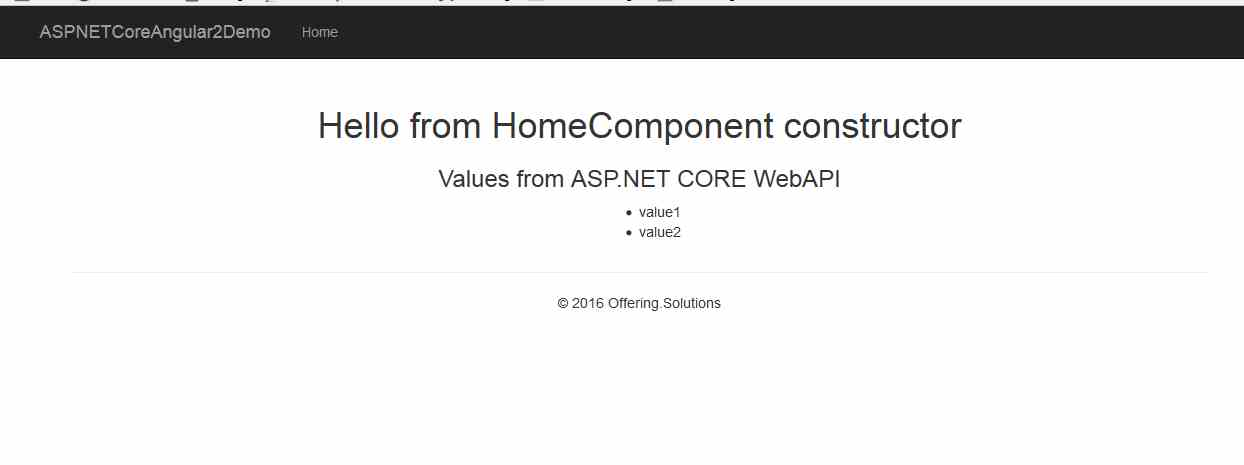
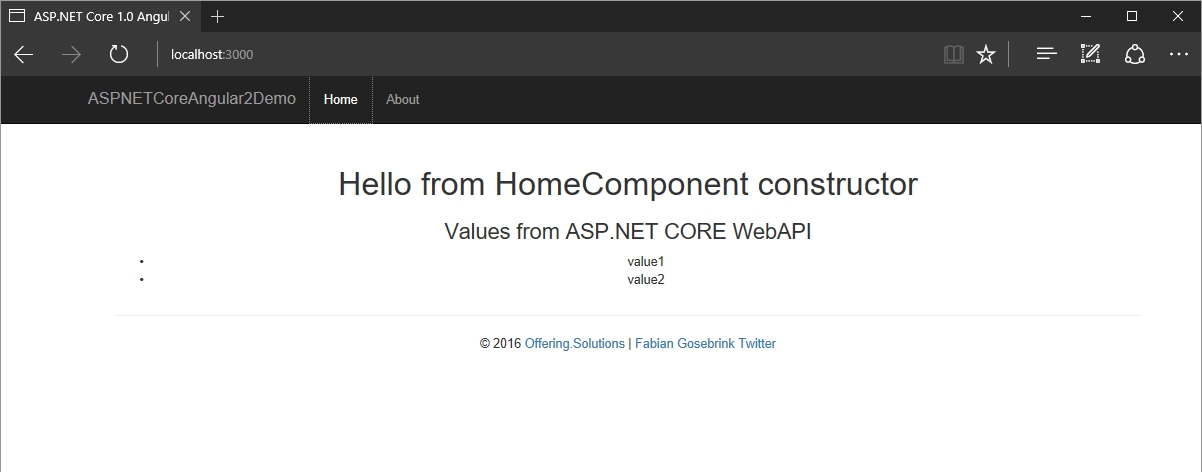
trying to update to RC5

diff --git a/src/ASPNETCoreAngular2Demo/wwwroot/app/app.module.js b/src/ASPNETCoreAngular2Demo/wwwroot/app/app.module.js
@@ -14,6 +14,8 @@ var app_component_1 = require('./app.component');
 var app_constants_1 = require('./app.constants');
 var app_routes_1 = require('./app.routes');
 var http_1 = require('@angular/http');
+var home_component_1 = require('./home/home.component');
+var about_component_1 = require('./about/about.component');
 var AppModule = (function () {
     function AppModule() {
     }
@@ -25,7 +27,7 @@ var AppModule = (function () {
                 http_1.HttpModule,
                 http_1.JsonpModule
             ],
-            declarations: [app_component_1.AppComponent],
+            declarations: [app_component_1.AppComponent, home_component_1.HomeComponent, about_component_1.AboutComponent],
             providers: [
                 app_routes_1.appRoutingProviders,
                 app_constants_1.Configuration

diff --git a/src/ASPNETCoreAngular2Demo/wwwroot/app/app.module.ts b/src/ASPNETCoreAngular2Demo/wwwroot/app/app.module.ts
@@ -4,6 +4,8 @@ import { AppComponent }  from './app.component';
 import { Configuration } from './app.constants';
 import { routing, appRoutingProviders } from './app.routes';
 import { HttpModule, JsonpModule } from '@angular/http';
+import { HomeComponent } from './home/home.component';
+import { AboutComponent } from './about/about.component';
 
 @NgModule({
     imports: [
@@ -13,7 +15,7 @@ import { HttpModule, JsonpModule } from '@angular/http';
         JsonpModule
     ],
 
-    declarations: [AppComponent],
+    declarations: [AppComponent, HomeComponent, AboutComponent],
 
     providers: [
         appRoutingProviders,

diff --git a/README.md b/README.md
@@ -4,19 +4,23 @@ This is a starter template for developing Angular2 with ASP.NET CORE 1.0 Applica
 
 This template is done with npm. Its an Angular2 application with an http-service getting values from an ASP.NET CORE WebAPI.
 
+## Start
+
 Start by typing
 
-<pre>npm install</pre>
+`npm install`
 
 at the level of the "package.json" file
 
-You can copy the js files manually or use the gulp task
-
-<pre>gulp get:started</pre>
+### Option 1
 
 Now you can just press "play" inside Visual Studio to get started.
 
 If you change the *.ts-files you need to run the `tsc` command manually.
+
+### Option 2
+
+`npm start` will run the gulp task for you, starting the lite-server and the tsc-watcher. You have to start the ASP.NET server manually by typing `dotnet run` separately.
 
 See this nice link which the Angular team did by working with Visual Studio and Angular 2 [Visual Studio 2015 QuickStart
 ](https://angular.io/docs/ts/latest/cookbook/visual-studio-2015.html)
